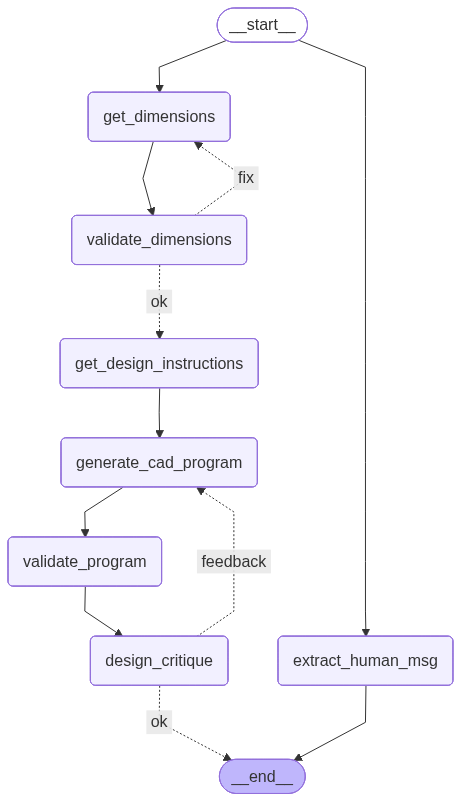
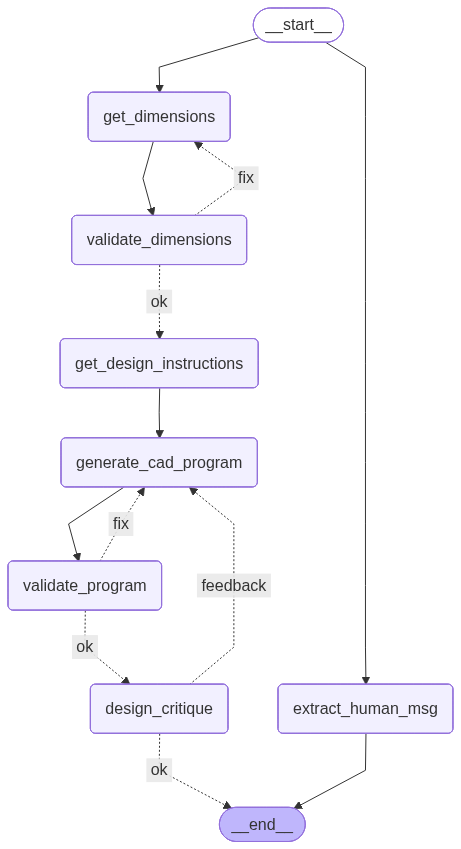
corrected graph with mocked nodes

diff --git a/graph/graph.py b/graph/graph.py
@@ -39,11 +39,19 @@ def build_graph():
 
     workflow.add_edge("get_design_instructions", "generate_cad_program")
     workflow.add_edge("generate_cad_program", "validate_program")
-    workflow.add_edge("validate_program", "design_critique")
+
+    workflow.add_conditional_edges(
+        "validate_program",
+        lambda s: "ok" if s["code_validation_status"] == "valid" else "fix",
+        {
+            "ok": "design_critique",
+            "fix": "generate_cad_program"
+        }
+    )
 
     workflow.add_conditional_edges(
         "design_critique",
-        lambda s: "ok" if s["code_validation_status"] == "valid" else "feedback",
+        lambda s: "ok" if s["design_review_status"] == "valid" else "feedback",
         {
             "ok": END,
             "feedback": "generate_cad_program"
